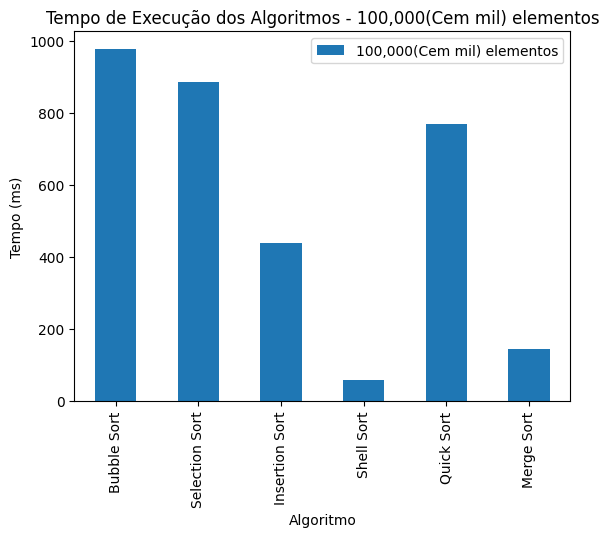
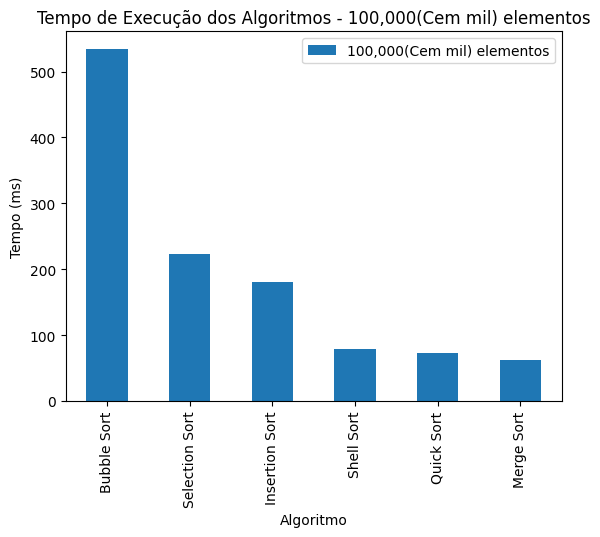
atualização nos dados dos gráficos

diff --git a/doc.md b/doc.md
@@ -28,20 +28,19 @@ Além disso para obtermos o tempo de execução de cada algoritmo, utilizamos o 
 
 Após isso, é realizado o cálculo da diferença entre o intervalo cronometrado, exibindo na tela a quantidade de tempo necessária para a execução do algoritmo em segundos e milissegundos.
 
-### Coleta e análise de dados
+## Resultados
 
 Realizamos os testes com cada algoritmo, armazenando em uma planilha o tempo necessário em milissegundos de cada execução para vetores com 1000(Mil), 10.000(Dez mil) e 100.000(Cem mil) elementos.
 
 |                | Mil    | Dez Mil | Cem Mil |
 | -------------- | ------ | ------- | ------- |
-| Bubble Sort    | 42.332 | 533.826 | 976.96  |
-| Selection Sort | 15.561 | 508.001 | 886.087 |
-| Insertion Sort | 8.703  | 356.93  | 437.38  |
-| Shell Sort     | 0.706  | 10.81   | 58.632  |
-| Quick Sort     | 2.706  | 88.934  | 767.561 |
-| Merge Sort     | 2.937  | 48.060  | 143.628 |
+| Bubble Sort    | 10.801 | 733.049 | 534.219 |
+| Selection Sort | 3.382  | 226.285 | 222.929 |
+| Insertion Sort | 1.625  | 146.256 | 180.982 |
+| Shell Sort     | 0.800  | 64.380  | 78.750  |
+| Quick Sort     | 2.292  | 28.781  | 72.587  |
+| Merge Sort     | 0.461  | 4.725   | 62.526  |
 
-### Gráficos
 
 Para uma melhor visualização desses dados, utilizamos duas ferramentas do python matplotlib e pandas para a geração de gráficos:
 
@@ -53,8 +52,10 @@ Para uma melhor visualização desses dados, utilizamos duas ferramentas do pyth
 
 Da esquerda para a direita estão sendo exibidos os algoritmos considerados mais eficientes em ordenação.
 
+## Conclusão
+
 Analisando cada gráfico é possivel observar a diferença entre o tempo de execução de cada um e o quanto isso depende do tamanho da entrada.
 
 Alguns algoritmos possuem uma eficiência significativa em vetores maiores, porém tem uma menor eficácia em conjuntos com número menor de elementos, e o oposto também acontece.
 
-No entanto, vale ressaltar que esses dados fazem parte deste trabalho a titulo de pesquisa, os tempos de execução podem variar dependendo do hardware utilizado para a execução dos algoritmos, da linguagem de programação que foi usada, e do próprio algoritmo em si. Portanto, é importante considerar esses fatores ao interpretar os resultados.
+No entanto, vale ressaltar que os dados deste trabalho são a titulo de pesquisa, os tempos de execução podem variar dependendo do hardware utilizado para a execução dos algoritmos, da linguagem de programação que foi usada, e do próprio algoritmo em si. Portanto, é importante considerar esses fatores ao interpretar os resultados.
